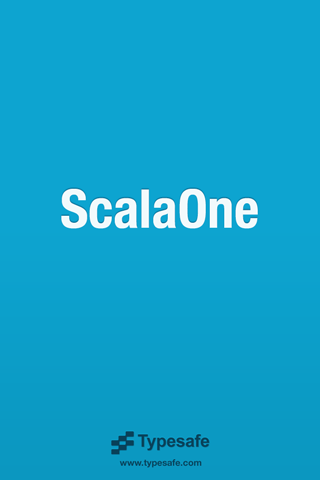
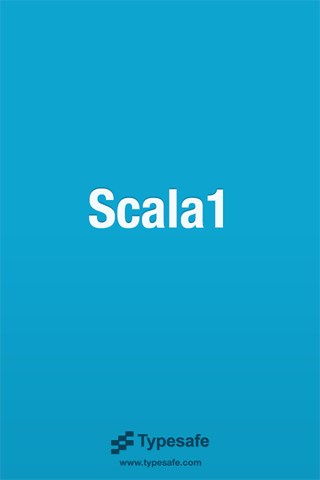
Changed home screen title and splash images to Scala1

diff --git a/ScalaOne/SOHomeViewController.m b/ScalaOne/SOHomeViewController.m
@@ -25,7 +25,7 @@
 {
     [super viewDidLoad];
 	// Do any additional setup after loading the view, typically from a nib.
-    self.title = @"ScalaOne";
+    self.title = @"Scala1";
     
 //    Fade out splash image
     UIImageView *splashView = [[UIImageView alloc] initWithImage:[UIImage imageNamed:@"Default"]];
